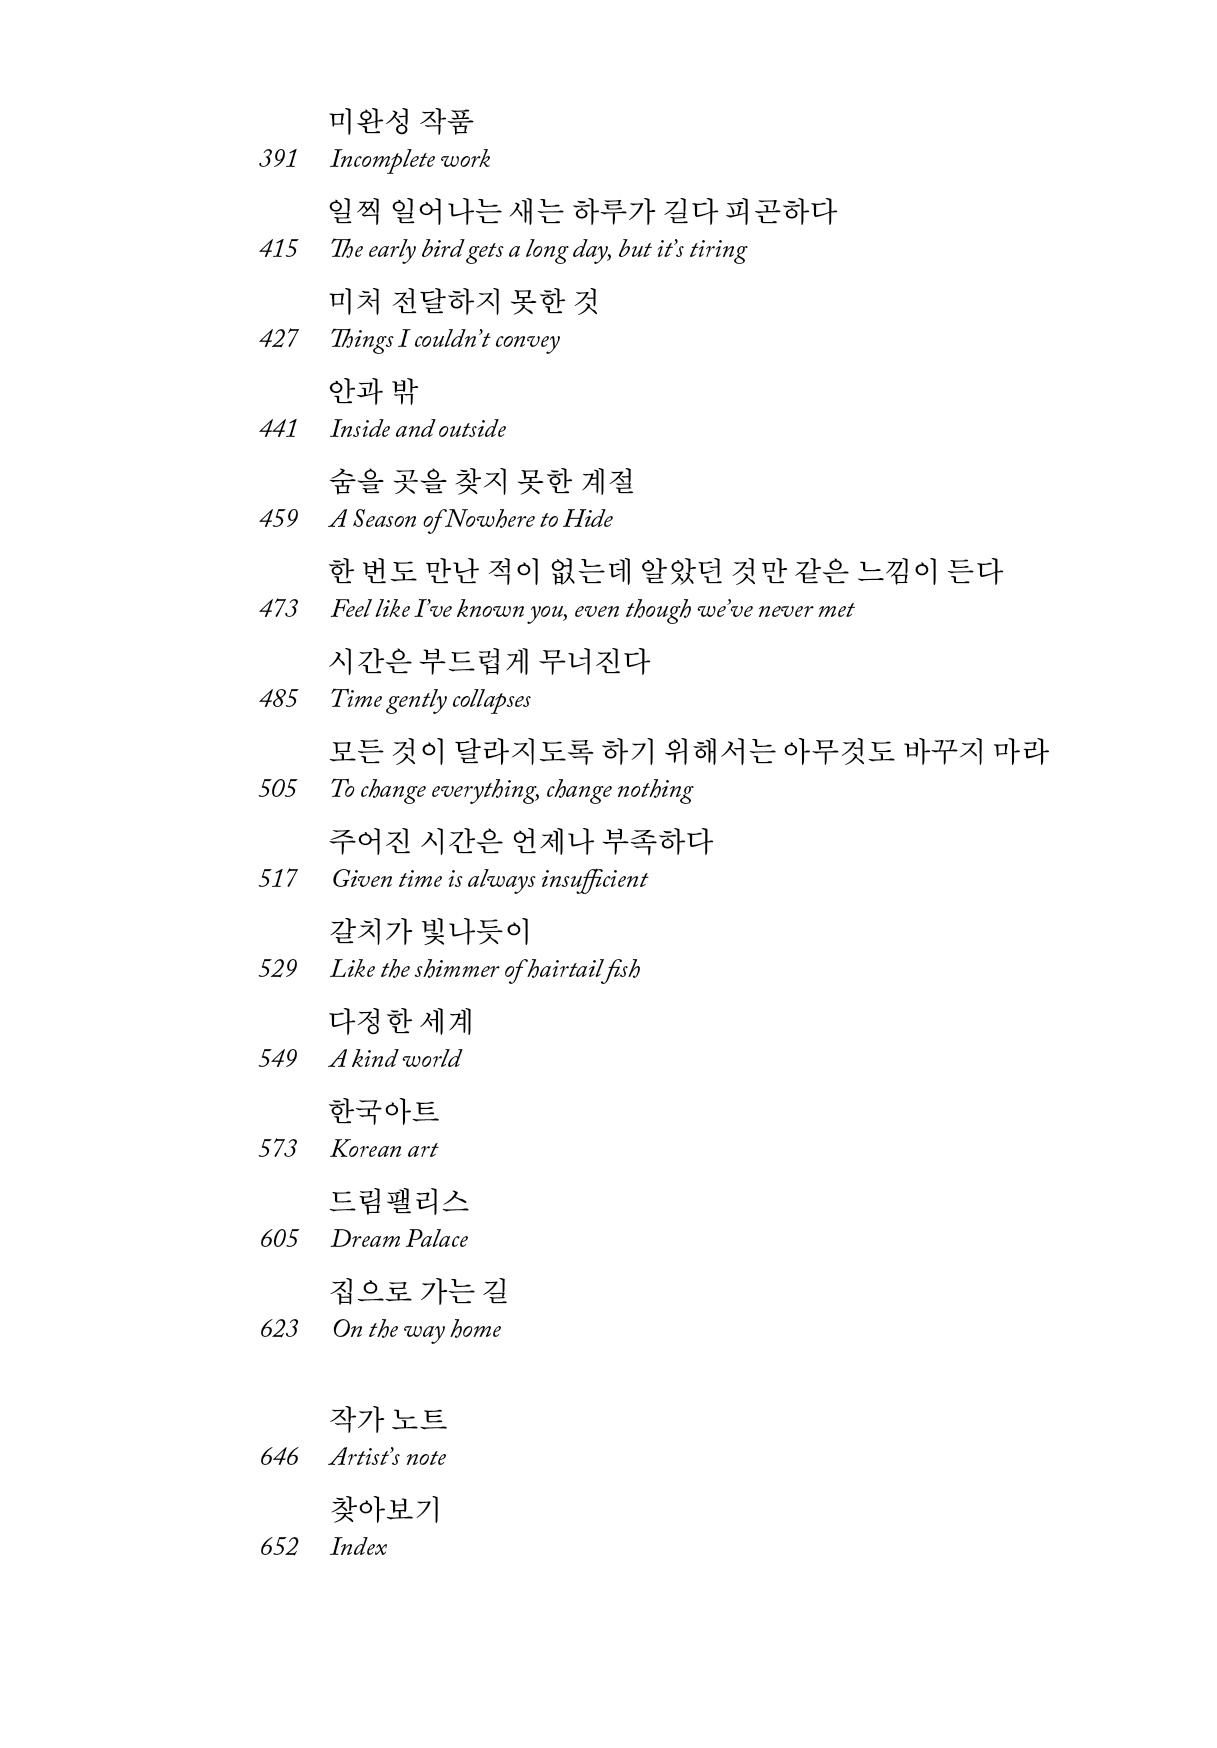
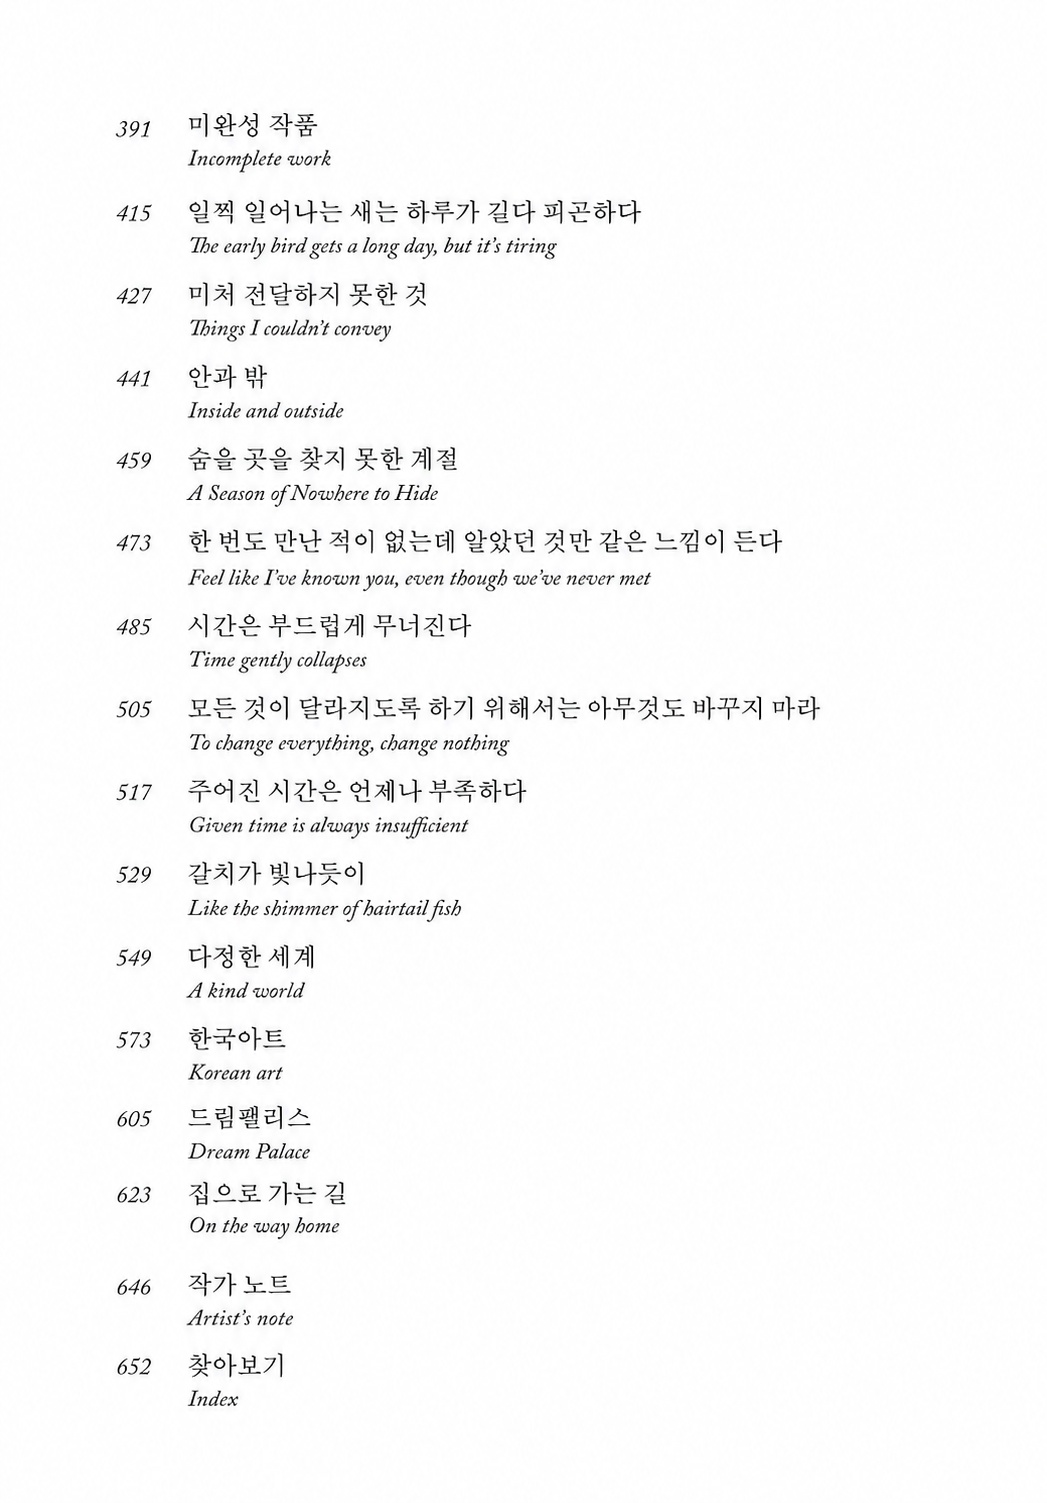
목차 중앙 정렬 통일 및 page_0007 이미지 교체

diff --git a/index.html b/index.html
@@ -111,7 +111,7 @@ body {
 <div class="gallery" style="padding-top: 40px; padding-bottom: 40px;">
   <div class="photo-item" style="margin-bottom:4px;"><img src="split_pages/page_0005.jpg" alt="목차"></div>
   <div class="photo-item" style="margin-bottom:4px;"><img src="split_pages/page_0006.jpg" alt="목차"></div>
-  <div class="photo-item" style="margin-left:2.7%; margin-right:auto; margin-bottom:4px;"><img src="split_pages/page_0007.jpg" alt="목차"></div>
+  <div class="photo-item" style="margin-bottom:4px;"><img src="split_pages/page_0007.jpg" alt="목차"></div>
 </div>
 
 <div id="gallery"></div>
